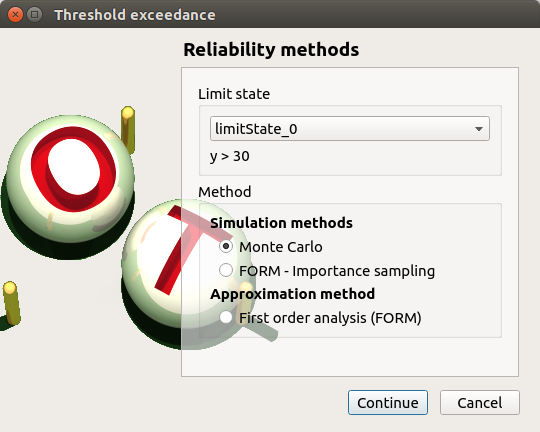
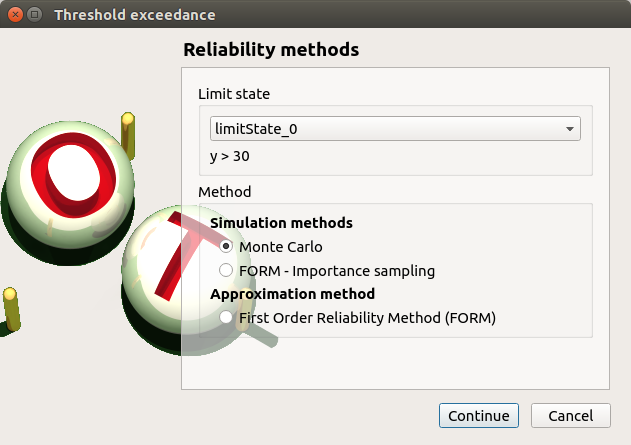
IntroReliabilityPage: replace First order analysis by First Order Reliability Method

diff --git a/translations/otgui_fr.ts b/translations/otgui_fr.ts
@@ -2616,8 +2616,8 @@ métamodèle</translation>
     </message>
     <message>
         <location filename="../lib/src/view/IntroReliabilityPage.cxx" line="89"/>
-        <source>First order analysis (FORM)</source>
-        <translation>Analyse du premier ordre (FORM)</translation>
+        <source>First Order Reliability Method (FORM)</source>
+        <translation>Méthode de fiabilité du premier ordre</translation>
     </message>
 </context>
 <context>

diff --git a/python/doc/user_manual/graphical_interface/probabilistic_analysis/user_manual_probabilistic_analysis.rst b/python/doc/user_manual/graphical_interface/probabilistic_analysis/user_manual_probabilistic_analysis.rst
@@ -152,7 +152,7 @@ The window proposes two simulation methods:
   - FORM - Importance sampling : the FORM algorithm starts from the result of the Importance sampling analysis
 
 and one approximation method:
-  - First order analysis (FORM)
+  - First Order Reliability Method (FORM)
 
 Simulation methods
 ~~~~~~~~~~~~~~~~~~
